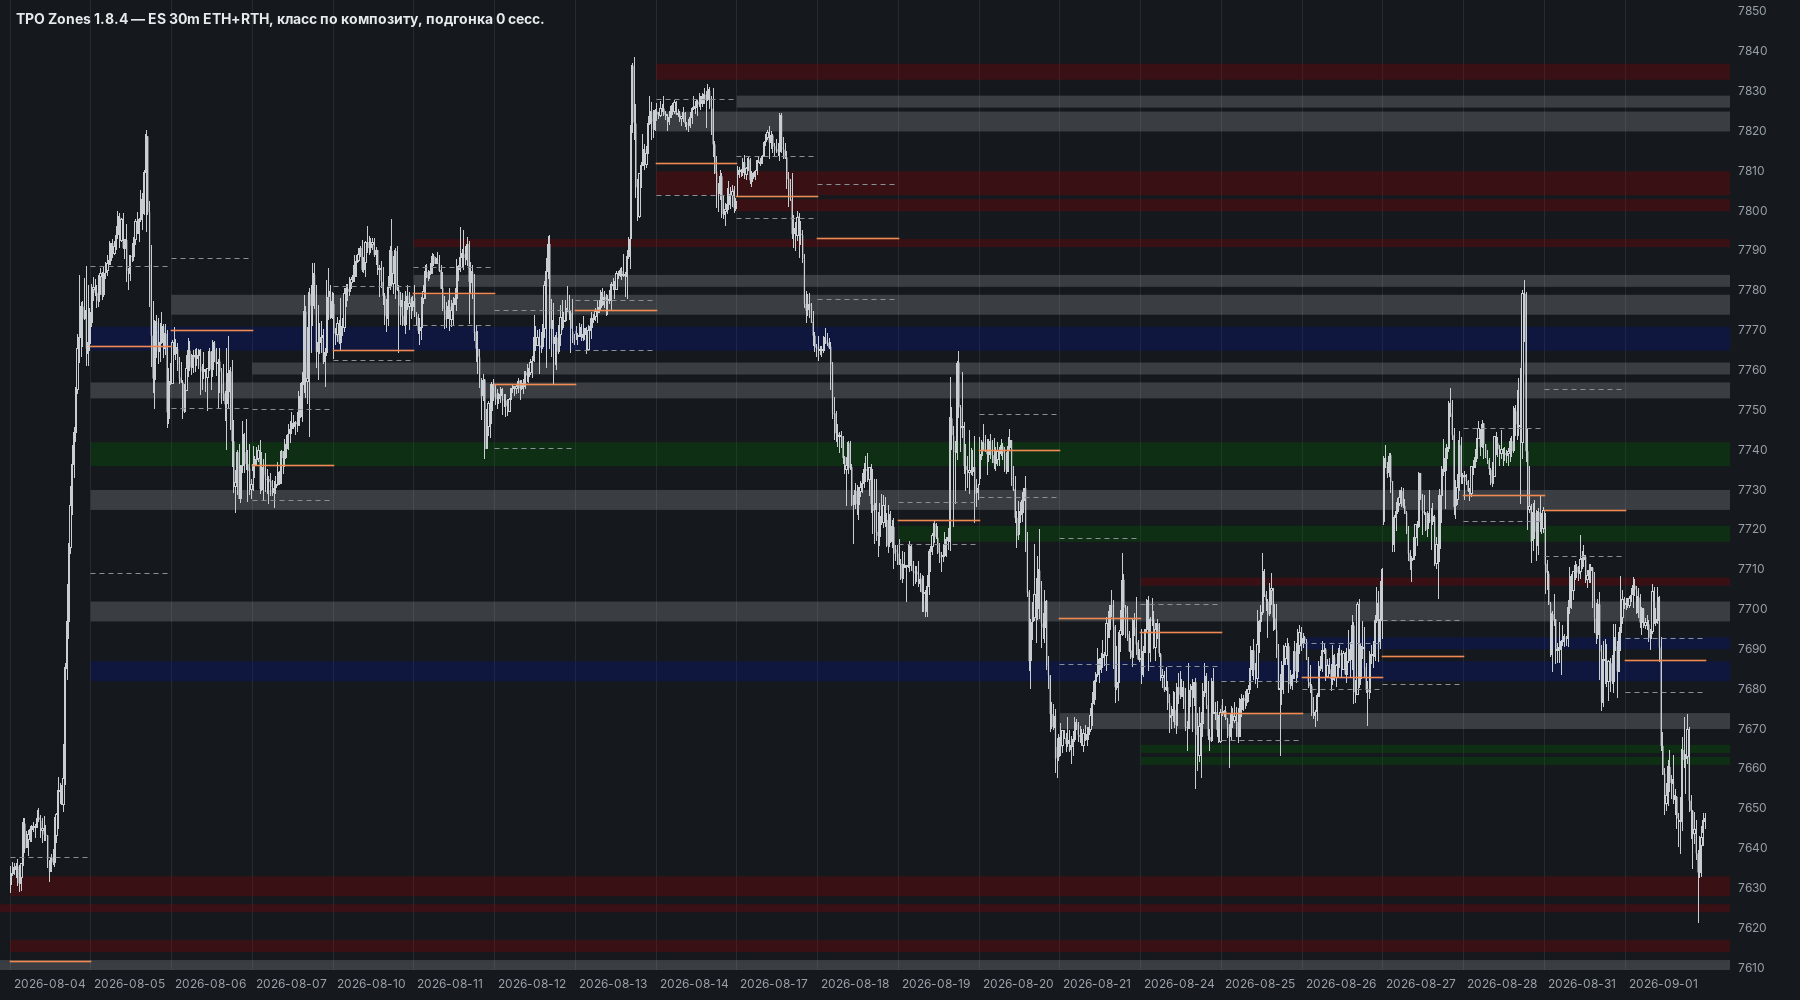
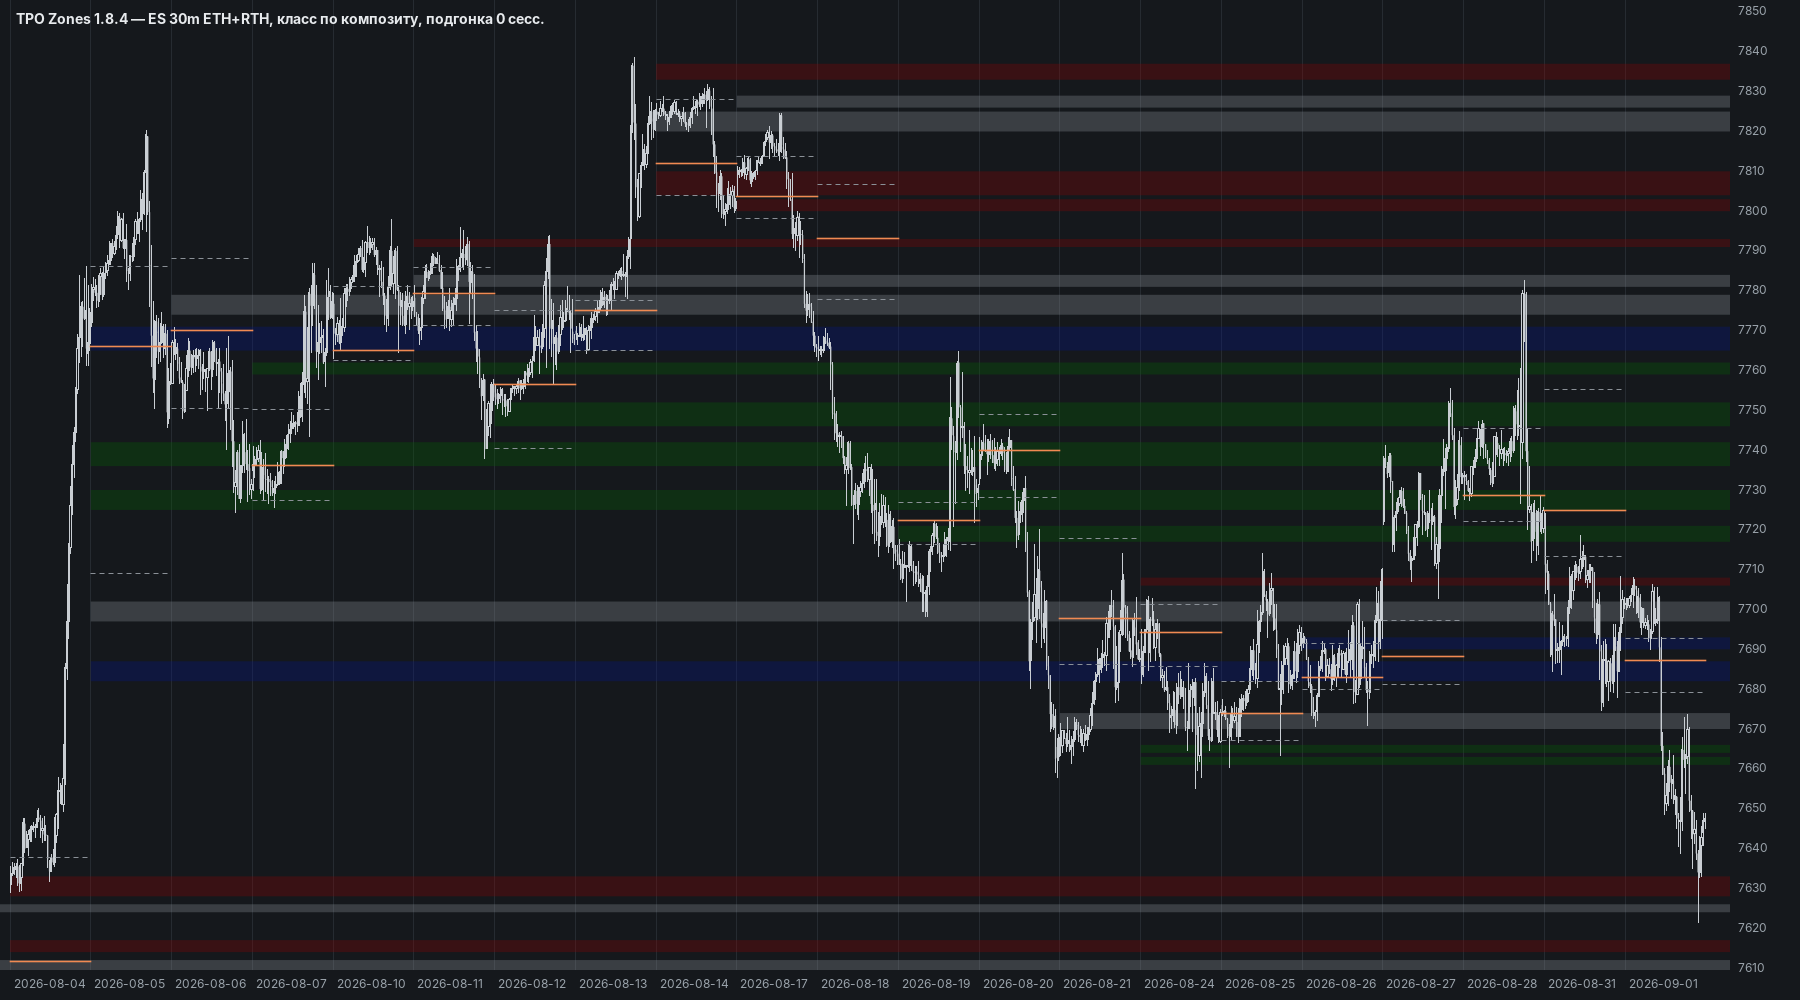
1.8.4 trial: value-based composites by default
compValue on: a day joins when its POC is inside the composite VA or at
least half of its VA is; days wider than 2 average ranges and smeared
days never join; the composite stays within 2.5 average ranges; up to 2
days off in a row are excursions (left out of the profile, the
composite goes on if price comes back), a third closes it.

Tuned on the user's manual map 7248-7884 (5 clusters of blue zones): all
5 found with one extra composite (1.8.3: 5 with 7 extra of 22; 4 days +
smeared days: 4 of 5, 4 extra). Balances 29 in the history (9 in the
last year), 4-9 days, range median 69 pts. Last session 611 zones,
blue 51. Against the 111 manual zones: found 34%, IoU>=0.5 18%, edge
1.20 pts, colour 21%.

Claude-Session: https://claude.ai/code/session_01PTkojyiGzDNp63zhXM5QMh

Changed region(s): [[0.0311, 0.465, 0.9644, 0.527], [0.0311, 0.341, 0.9644, 0.403], [0.0, 0.899, 0.9644, 0.93]]

diff --git a/motivewave/src/patterns/zones/ZoneEngine.java b/motivewave/src/patterns/zones/ZoneEngine.java
@@ -79,13 +79,15 @@ public final class ZoneEngine {
                                                   // не больше стольких TPO (тренд, жирной части нет): в композит не входит; 0 — выкл.
         // ---- композит по стоимости (1.8.4, compValue): день входит, если его стоимость в стоимости композита — POC дня внутри
         //      VA композита или VA дня на ≥ compValueShare своей ширины внутри VA композита; день шире compDayMaxAdr средних
-        //      диапазонов и «размазня» не входят; композит не шире compMaxAdr средних диапазонов; один день мимо (вылет) —
-        //      пропускается, композит идёт дальше, если следующий день вернулся; два подряд — композит закрыт (с вылета).
-        public boolean compValue = false;
+        //      диапазонов и «размазня» не входят; композит не шире compMaxAdr средних диапазонов; до compExcursion дней мимо
+        //      подряд (вылеты) пропускаются и в профиль не входят, композит идёт дальше, если цена вернулась; больше — закрыт
+        //      (с первого вылета). Прежнее склеивание (close в диапазоне, внешний день, VA вчерашнего дня) — compValue = false.
+        //      Настроено по ручной разметке 7248–7884 (5 скоплений синих: все 5 находятся, лишний композит 1).
+        public boolean compValue = true;
         public double compValueShare = 0.5;
-        public double compDayMaxAdr = 1.5;
-        public int compExcursion = 1;
-        public double compMaxAdr = 0;             // 1.8.4: композит не шире стольких средних дневных диапазонов (20 прошлых полных
+        public double compDayMaxAdr = 2;
+        public int compExcursion = 2;
+        public double compMaxAdr = 2.5;             // 1.8.4: композит не шире стольких средних дневных диапазонов (20 прошлых полных
                                                   // RTH-дней): день, с которым High–Low композита вышел бы шире, — выход; 0 — выкл.
         public int smearMode = 1;                 // ... 1 — такой день закрывает композит (выход, ложного выхода через него нет) и
                                                   // нового не начинает; 2 — пропускается, композит идёт дальше, как будто дня нет

diff --git a/motivewave/HISTORY.md b/motivewave/HISTORY.md
@@ -14,7 +14,11 @@
   зон 611 (было 773), стопок ≥ 10 п. 3 (было 54), найдено 32% (было 40%), край 1.14 п. (1.43), цвет 22% (23%).
   Перекрашено 179 зон из 581. Затем (по замечанию пользователя на картинках композитов «договорились — от 4 дней»,
   «размазнёвые дни не включать»): композит от 4 дней; день с ≤ 5 TPO в самой широкой строке закрывает композит.
-  Балансов 131 → 88; итог: зон 602, найдено 33%, край 1.22 п., цвет 27%. Пробовали: синие вне лимита стопки — оставались стопки синих по 15 п. (7745–7760 в
+  Балансов 131 → 88; итог: зон 602, найдено 33%, край 1.22 п., цвет 27%. Затем **композит по стоимости** (`compValue`,
+  README раздел 9 п. 7): «сопли», лесенки и «размотало по обе стороны» больше не композиты; 1–2 дня вылета — ретест,
+  композит не рвут. Настроено по 5 ручным скоплениям синих на 7248–7884 (все 5, лишний 1). Балансов 29 (9 за год);
+  найдено 34%, край 1.20 п., цвет 21%. Пробовали: строже (1 вылет, день ≤ 1.5 диапазона) — 3 скопления из 5;
+  от 3 дней — 5 из 5, но композиты по 3 дня пользователь отключил. Пробовали: синие вне лимита стопки — оставались стопки синих по 15 п. (7745–7760 в
   октябре 2026); лимит по сумме ширин без щелей — 3 зоны по 3 п. через квадрат проходили.
 - **1.8.3** (19.11.2026, ветка `zones-1.8.3`) — 1.8.2, где зоны экстремумов стали обычными зонами, плюс хвост баланса и
   без широких серых (README, разделы 4, 5, 8):

diff --git a/motivewave/HANDOFF.md b/motivewave/HANDOFF.md
@@ -12,6 +12,11 @@
   композит — 4–5 п. самое широкое место, это размазня, а не композит». Сделано: `compositeMinDays = 4` (в 1.8.2 записано
   «пробовали, не взяли» — пользователь считает это согласованным), `smearMaxTpo = 5` / `smearMode = 1`. Открыто: ноябрь
   2025 (строки 6–7 TPO при днях 85–240 п.) правилом 5 не ловится; день 20.11.2025 (240 п.) раздувает композит до 254 п.
+- **Потом, по композитам по сессиям** (`parity/CompSess`): «сопля на 200 п.», «размотало по обе стороны — это
+  композитом считается», «нормальный — 08.20–08.26: третий день отходит ниже, но визуально это боковик». О количестве:
+  на 7248–7884 у пользователя 5 скоплений балансов (в каждом 1–3), «основные балансы — примерно по одному в каждом
+  диапазоне, а часто это просто ретесты этих же балансов, и ничего не надо менять». Сделано: композит по стоимости
+  (`compValue`, по умолчанию), настроен по этим 5 скоплениям. Ждёт его взгляда на картинки.
 - **Как понято:** «10 п.» — на сумму стопки (от низа до верха со щелями), а не на зону; синие ≤ 1 п. и синие / экстремумы
   ≤ 2 п. не трогаются (прежнее «синие не трогаем», «экстремумы вне серых правил»). Лимит ядра `zoneMaxWidthPts` оставлен.
 - **Открыто:** «найдено» упало 40 → 32% (−1 п. и обрезка по телам — ручные зоны часто 1–2 п. и по центру узла);
